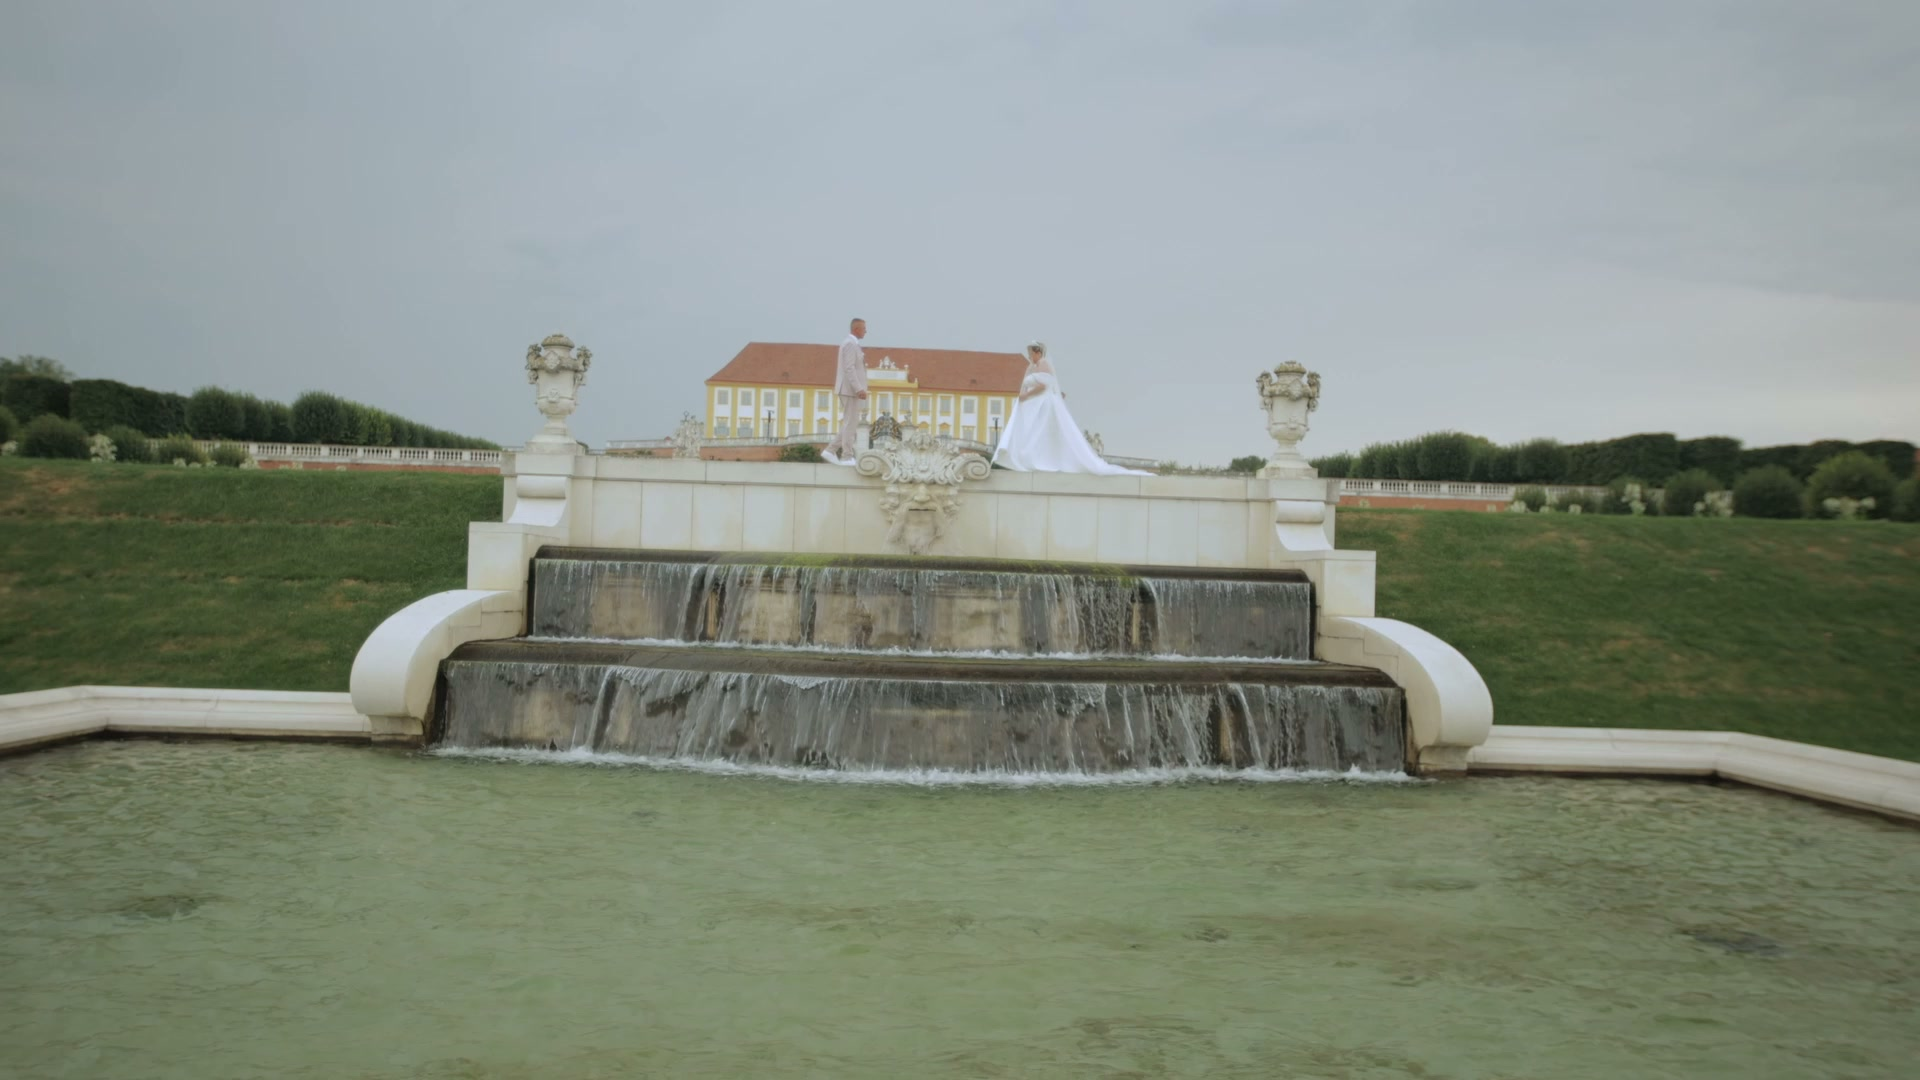
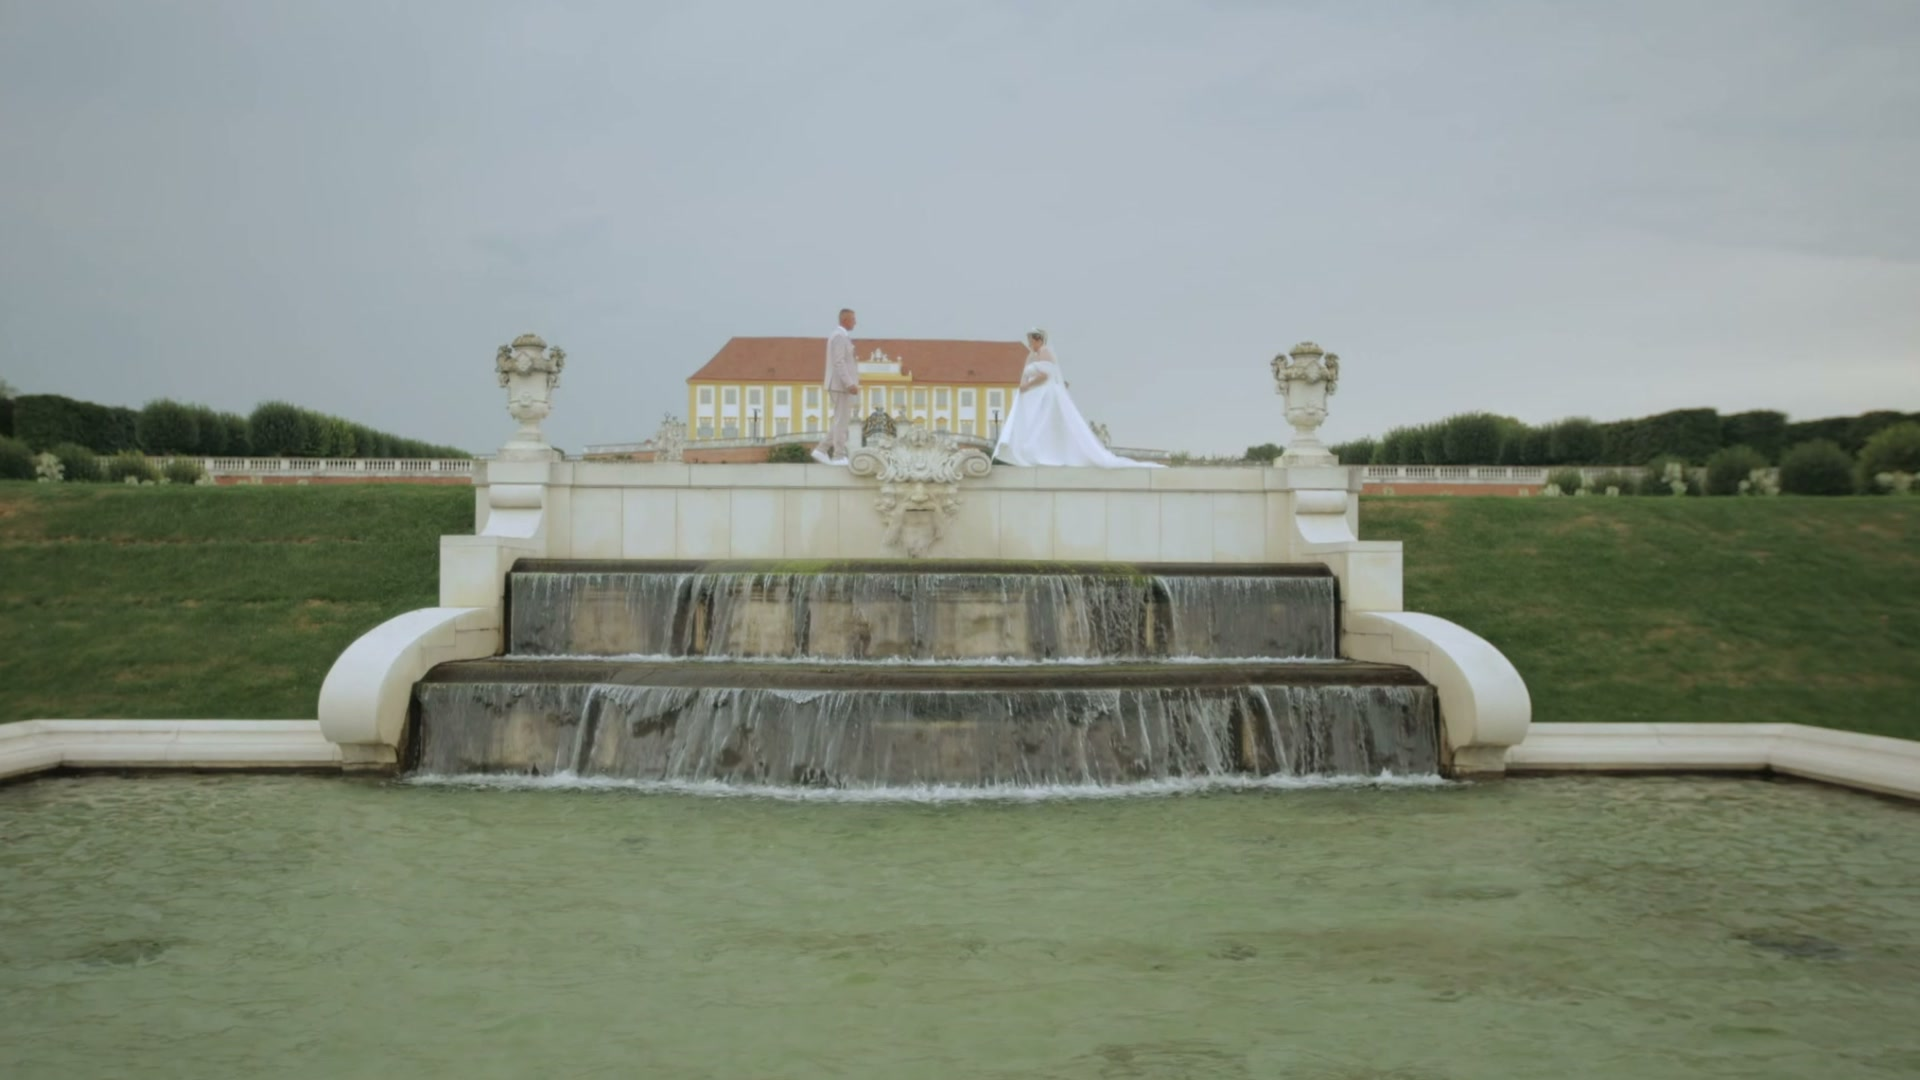
Level horizon on cover image and add local backup notice

diff --git a/index.html b/index.html
@@ -89,6 +89,9 @@
               <span class="spec-label">Дата</span>
               <span class="spec-value" id="wedding-date">01.08.2026</span>
             </div>
+            <p class="backup-notice">
+              <strong>Важливо:</strong> обов'язково скачайте файли та збережіть їх на своїх ноутбуках або зовнішніх носіях — сайт і хмарні посилання не вічні.
+            </p>
             <div class="download-actions" style="display:flex;flex-direction:column;gap:10px;">
               <a id="drive-download-btn" href="#" target="_blank" rel="noopener noreferrer" class="btn btn-primary btn-full">
                 Завантажити Фільм (Google Диск)

diff --git a/styles.css b/styles.css
@@ -401,6 +401,17 @@ body {
   color: var(--ink);
 }
 
+.backup-notice {
+  margin: 0 0 22px;
+  padding: 14px 16px;
+  background: var(--surface);
+  border-left: 3px solid var(--ink);
+  border-radius: var(--radius);
+  font-size: 13.5px;
+  line-height: 1.5;
+  color: var(--ink);
+}
+
 /* Brand Section */
 .brand-card {
   background: var(--surface);
